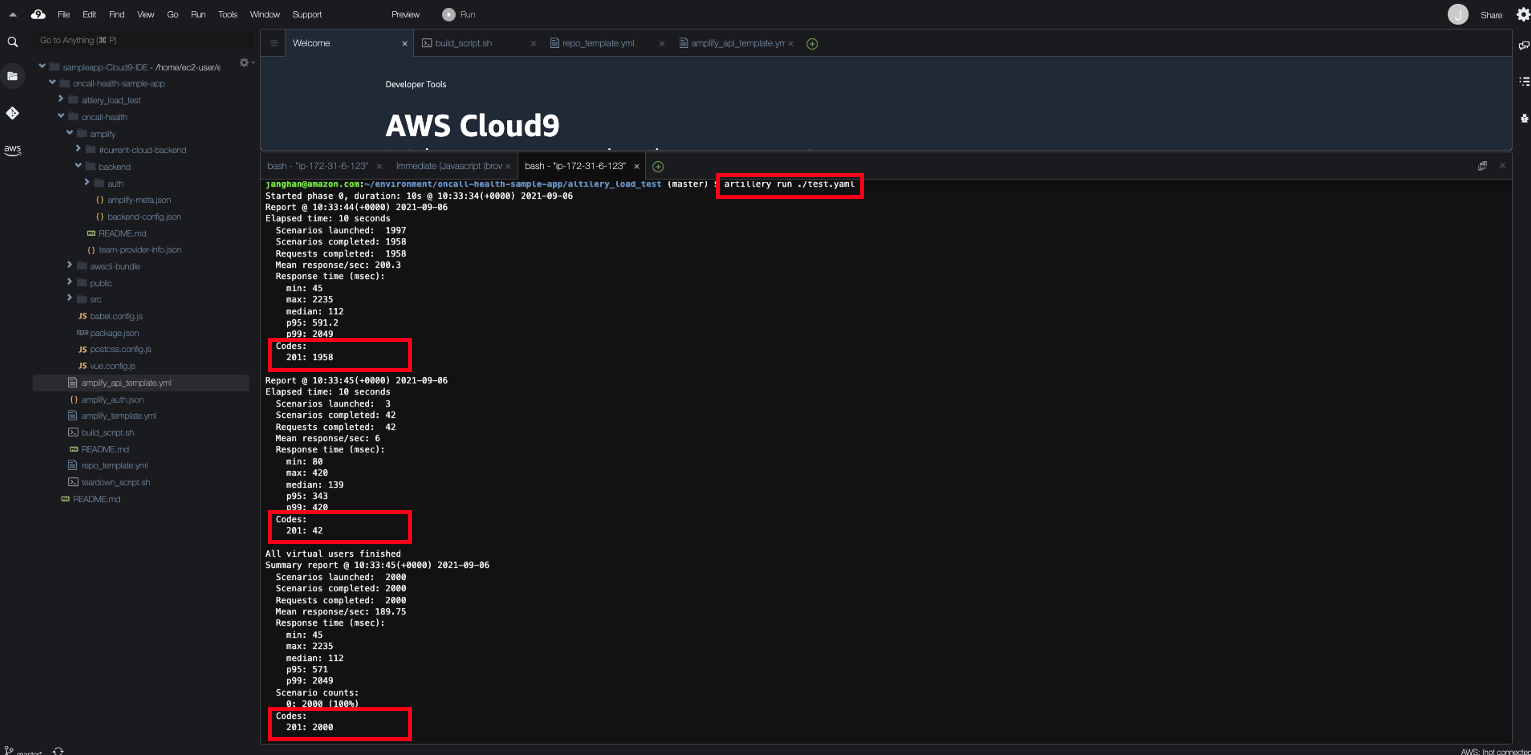
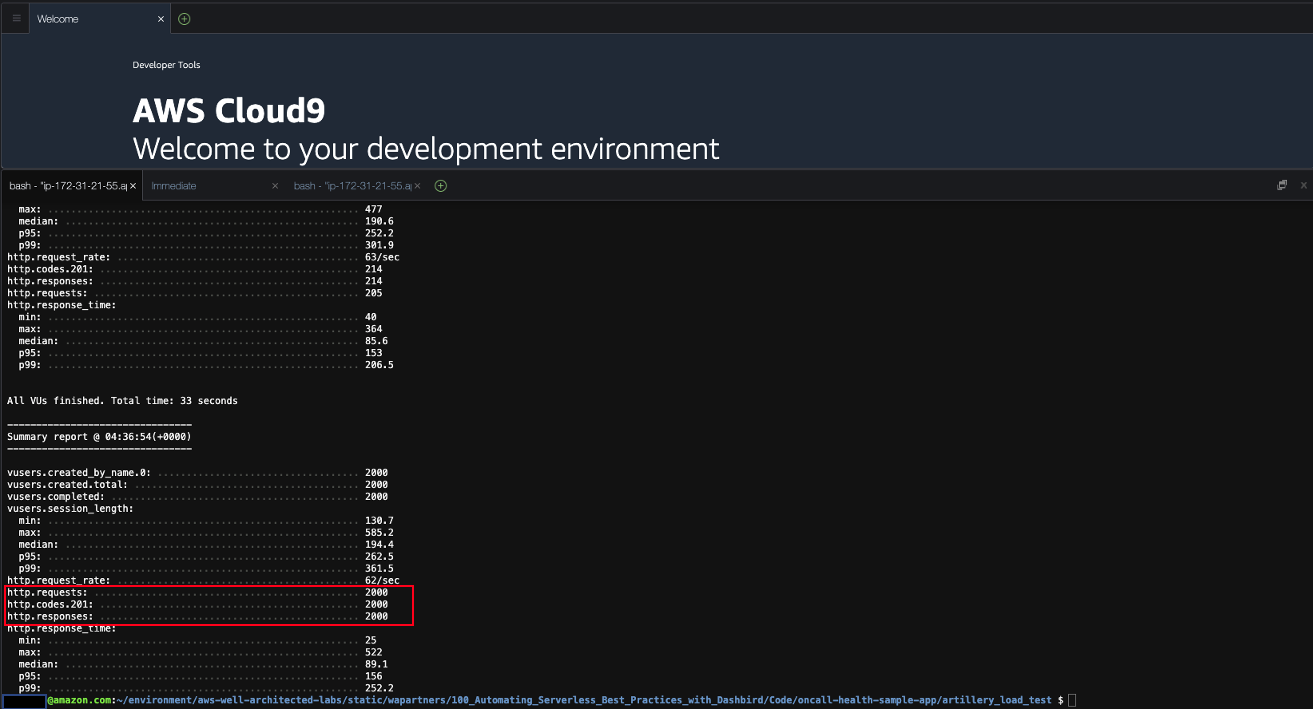
updated images

diff --git a/content/Well-ArchitectedPartners/100_Labs/100_Automating_Serverless_Best_Practices_with_Dashbird/3_modern_load_test.md b/content/Well-ArchitectedPartners/100_Labs/100_Automating_Serverless_Best_Practices_with_Dashbird/3_modern_load_test.md
@@ -6,9 +6,9 @@ pre: "<b>3. </b>"
 weight: 3
 ---
 
-The on-demand nature of the AWS Cloud allows for a production-scale test environment to be deployed in a matter of minutes. 
+The on-demand nature of the AWS Cloud allows for a production-scale test environment to be deployed in a matter of minutes.
 
-While AWS serverless services allow for efficient scaling individually, it is important to consider the effect of [Service Quotas](https://docs.aws.amazon.com/general/latest/gr/aws_service_limits.html) at both region and account level. Ignoring these maximum limits can become immediately impactful to a production workload. 
+While AWS serverless services allow for efficient scaling individually, it is important to consider the effect of [Service Quotas](https://docs.aws.amazon.com/general/latest/gr/aws_service_limits.html) at both region and account level. Ignoring these maximum limits can become immediately impactful to a production workload.
 
 In this section we will perform load testing on our deployed Blue Car application to ensure that the architecture scales in alignment to the traffic which is being processed.
 
@@ -30,12 +30,15 @@ Complete the following steps:
 
 [Artillery](https://artillery.io/) is one of the most popular open-source tools for load testing serverless API. You will configure the number of requests per second and test duration.
 
-1. In Cloud9, open **test.yaml** in altilery_load_test directory.
+1. In Cloud9, open **test.yaml** in altilery_load_test directory. Please ensure you are still in **aws-well-architected-labs/static/wapartners/100_Automating_Serverless_Best_Practices_with_Dashbird/Code/oncall-health-sample-app/**
+
 ```
-cd altilery_load_test/
+cd artillery_load_test/
 vi test.yaml
 ```
-![Section3 Open Config](/wapartners/100_Automating_Serverless_Best_Practices_with_Dashbird/Images/section3/section3-open-config.png)
+
+
+![Section3 Open Config](/wapartners/100_Automating_Serverless_Best_Practices_with_Dashbird/Images/section3/section3-open-configfile.png)
 
 2. We will need to replace **API Invoke URL** and **Auth Token** with the values you have generated. The current configuration is set to **200 requests per a second** over a **10-second duration**.
 
@@ -44,7 +47,7 @@ vi test.yaml
 3. You should be seeing **test.yaml** as shown:
 ![Section3 Replace API Auth Token](/wapartners/100_Automating_Serverless_Best_Practices_with_Dashbird/Images/section3/section3-replace-api-auth-token.png)
 
-4. Run load test by running artillery cli with test configuration as shown below. Run this cli 2-3 times and check to see that no 5xx errors are generated. 
+4. Run load test by running artillery cli with test configuration as shown below. Run this cli **2-3 times** and check to see that no 5xx errors are generated.
 
 
 ```
@@ -54,7 +57,7 @@ artillery run ./test.yaml
 ![Section3 Run Test](/wapartners/100_Automating_Serverless_Best_Practices_with_Dashbird/Images/section3/section3-run-test.png)
 
 {{% notice note %}}
-**Note:** If you see 4XX error, please check if you updated auth token correctly in test.yaml.
+**Note:** If you see 4XX error, your auth token probably has expired.(Access token expiration: 60 minutes) You can refresh the blue car application and get a new auth token by clicking **auth token**. Please update auth token correctly in test.yaml.
 {{% /notice %}}
 
 
@@ -109,7 +112,7 @@ responsetime < 3
 ![Section3 Write Throttled Requests](/wapartners/100_Automating_Serverless_Best_Practices_with_Dashbird/Images/section3/section3-write-throttled-requests.png)
 
 {{% notice note %}}
-Take a note of **Average item size** to calculate the appropriate write capacity unit.
+Take a note of **Average item size** to calculate the appropriate write capacity unit. However, DynamoDB updates the following information approximately every six hours. Average item size for this lab will be 137 byte. Let's use this size.
 {{% /notice %}}
 
 15. To address the throttling, go to the **Additional settings** and select **Edit** to enable DynamoDB auto-scaling.
@@ -120,7 +123,7 @@ Take a note of **Average item size** to calculate the appropriate write capacity
 
 ![Section3 Capacity Calculation](/wapartners/100_Automating_Serverless_Best_Practices_with_Dashbird/Images/section3/section3-capacity-calculation.png)
 
-17. Our test ultimately reached a peak of 200 write requests per second but we do not consistently write this amount of write. Hence, we will configure Auto scaling that dynamically adjusts provisioned throughput capacity on our behalf, in response to actual traffic patterns under monitoring. Auto Scaling enables us to effectively eliminate the guesswork involved in provisioning adequate capacity. Please see [Managing Throughput Capacity Automatically with DynamoDB Auto Scaling](https://docs.aws.amazon.com/amazondynamodb/latest/developerguide/AutoScaling.html).
+17. Our test ultimately reached a peak of 200 write requests per second but we do not consistently write this amount of write. Hence, we will configure Auto scaling that dynamically adjusts provisioned throughput capacity on our behalf, in response to actual traffic patterns under monitoring. Auto Scaling enables us to effectively eliminate the guesswork involved in provisioning adequate capacity. Please see [Managing Throughput Capacity Automatically with DynamoDB Auto Scaling](https://docs.aws.amazon.com/amazondynamodb/latest/developerguide/AutoScaling.html) and check the estimated cost before you enable auto scaling.
 
 {{% notice note %}}
 **NOTE:** You will be billed for any applicable AWS resources used if you complete this lab that are not covered in the [AWS Free Tier](https://aws.amazon.com/free/).
@@ -132,8 +135,11 @@ Take a note of **Average item size** to calculate the appropriate write capacity
 
 ![Section3 Autoscaling Activity](/wapartners/100_Automating_Serverless_Best_Practices_with_Dashbird/Images/section3/section3-autoscaling-activity.png)
 
-19. Now I am able to put all item with 201 response. If you see 4XX error, please update auth token correctly in test.yaml.
+19. If you perform the same load test a few times, 5xx errs will be gone. Now I am able to put all 2000 items with 201 response. If you see 4XX error, please update auth token correctly in test.yaml as your auth token has expired.
 
+```
+artillery run ./test.yaml
+```
 ![Section3 Re-run Test](/wapartners/100_Automating_Serverless_Best_Practices_with_Dashbird/Images/section3/section3-rerun-test.png)
 
 20. Once you stop testing, DynamoDB auto scaling will automatically scale down the write capacity units to 1.

diff --git a/content/Well-ArchitectedPartners/100_Labs/100_Automating_Serverless_Best_Practices_with_Dashbird/1_deploy_blue_car_application.md b/content/Well-ArchitectedPartners/100_Labs/100_Automating_Serverless_Best_Practices_with_Dashbird/1_deploy_blue_car_application.md
@@ -6,7 +6,7 @@ pre: "<b>1. </b>"
 weight: 1
 ---
 
-You will start by deploying the example application which allows a customer to order medical assistance based on selecting a map location. The application consists of a public AWS API gateway which connects to a serverless application layer [AWS Lambda](https://aws.amazon.com/lambda/), which uses [Amazon DynamoDB](https://aws.amazon.com/dynamodb/) . 
+You will start by deploying the example application which allows a customer to order medical assistance based on selecting a map location. The application consists of a public AWS API gateway which connects to a serverless application layer [AWS Lambda](https://aws.amazon.com/lambda/), which uses [Amazon DynamoDB](https://aws.amazon.com/dynamodb/) .
 
 You will also deploy [AWS Amplify](https://aws.amazon.com/amplify/) to host the static website with CI/CD build-in and [Amazon Cognito](https://aws.amazon.com/cognito/) to manage users.
 
@@ -69,7 +69,7 @@ cd aws-well-architected-labs/static/wapartners/100_Automating_Serverless_Best_Pr
 bash build_script.sh
 ```
 
-![Section1 Cloud9](/wapartners/100_Automating_Serverless_Best_Practices_with_Dashbird/Images/section1/section1-cloud9.png)
+![Section1 Cloud9](/wapartners/100_Automating_Serverless_Best_Practices_with_Dashbird/Images/section1/section1-cloud9-console.png)
 
 2. In the CloudFormation console, you will see a new stack called **oncall-health-amplify**. Click **oncall-health-amplify** and go to the **Outputs** section of the CloudFormation stack. Then, click **AppURL** to access the application.
 
@@ -87,7 +87,7 @@ bash build_script.sh
 
 ![Section1 User Information](/wapartners/100_Automating_Serverless_Best_Practices_with_Dashbird/Images/section1/section1-user-information.png)
 
-6. Retrieve the **Confirmation code** from your email which you entered previously and click **CONFIRM**
+6. Retrieve the **Confirmation code** from your email which you entered previously and click **CONFIRM**. This step is required because only verified user can call blue car in the application.
 
 ![Section1 Confirm](/wapartners/100_Automating_Serverless_Best_Practices_with_Dashbird/Images/section1/section1-confirm.png)
 
